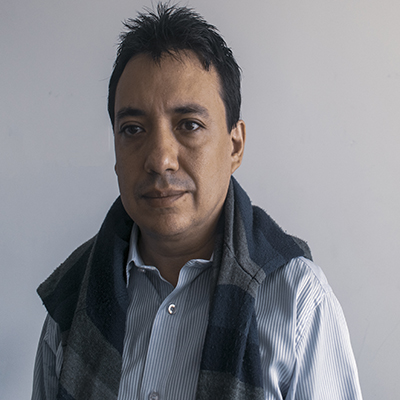
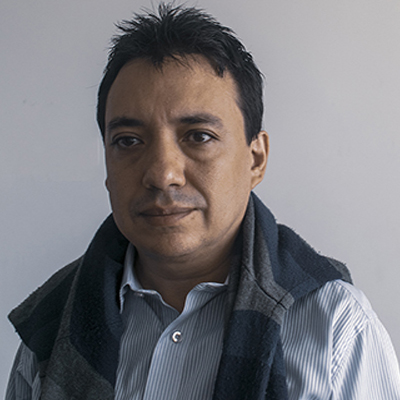
Picture correction

diff --git a/index.html b/index.html
@@ -1144,7 +1144,7 @@
       
     
     
-      <a href="/authors/mora/"><img class="portrait" src="/authors/mora/avatar_hu569ecc0093832e29d4532a22403c6a85_117251_150x150_fill_q90_lanczos_center.jpg" alt="Avatar"></a>
+      <a href="/authors/mora/"><img class="portrait" src="/authors/mora/avatar_hu2b79e40a6714bf14351edbb0c5eed890_117263_150x150_fill_q90_lanczos_center.jpg" alt="Avatar"></a>
     
 
     <div class="portrait-title">

diff --git a/authors/mora/index.html b/authors/mora/index.html
@@ -415,7 +415,7 @@
 
       
       
-      <img class="portrait" src="/authors/mora/avatar_hu569ecc0093832e29d4532a22403c6a85_117251_250x250_fill_q90_lanczos_center.jpg" itemprop="image" alt="Avatar">
+      <img class="portrait" src="/authors/mora/avatar_hu2b79e40a6714bf14351edbb0c5eed890_117263_250x250_fill_q90_lanczos_center.jpg" itemprop="image" alt="Avatar">
       
 
       <div class="portrait-title">
